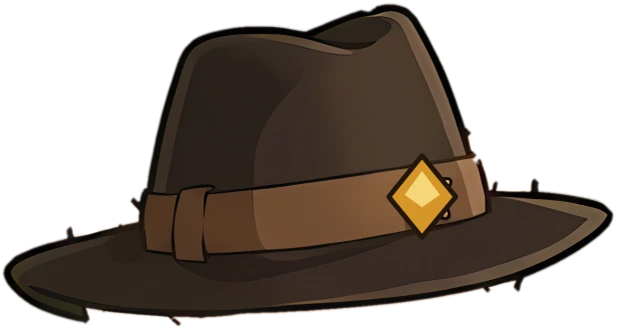
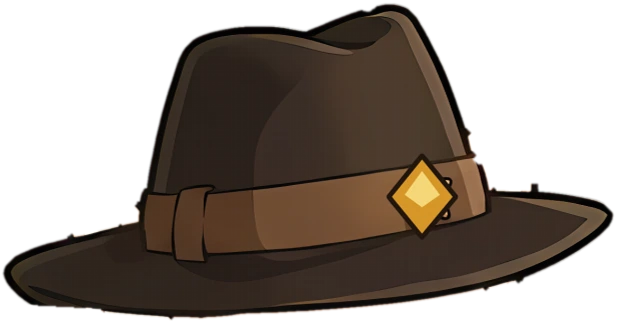
Hat: right ear stays covered; no triangles on the left
- The far ear is no longer drawn over the hat and the worn hat sits where it did.
- The near ear over the hat is clipped before the skull fur that poked out as an
  orange triangle; the back brim's lip no longer ends in a dark point (re-baked).
- The worn-hat bend starts past the crown, so no seam opens beside the badge.

diff --git a/src/character/AgentFox.ts b/src/character/AgentFox.ts
@@ -1864,26 +1864,18 @@ function mark(g: G, name: string, p: V2) {
 
 /** Rig px the hat sits above its baked place (master look: brows clear of the brim). */
 const HAT_RAISE = 34;
-/** The far ear on the head sprite (rig px), stopping just above the skull's outline at its base. */
-const FAR_EAR: V2[] = [
-  [1768, 246],
-  [1800, 196],
-  [1852, 146],
-  [1902, 104],
-  [1936, 98],
-  [1946, 180],
-  [1944, 262],
-  [1916, 336],
-  [1900, 326],
-  [1862, 298],
-  [1826, 266],
-  [1792, 252],
+/** Where the near ear drawn over the hat ends (rig px): just past its rim, before the skull. */
+const EAR_OVER_CLIP: V2[] = [
+  [1440, 170],
+  [1626, 170],
+  [1627, 276],
+  [1636, 318],
+  [1636, 440],
+  [1440, 440],
 ];
 /** The worn hat (master look): forward tip (rad), how much lower it sits (rig px), brim droop and back curl (rad). */
 const HAT_TIP = 0.07;
 const HAT_SEAT = 10;
-/** Worn further back on the head (rig px), as in the master: the badge shows beside the far ear. */
-const HAT_BACK = 80;
 const HAT_DROOP = 0.6;
 const HAT_CURL = 0.3;
 
@@ -2155,16 +2147,15 @@ function drawFoxSheetRig(g: G, pose: FoxPose): void {
     // Worn (master look): tipped forward with the brim bent down over the brow and up at the back; as it
     // lifts off the head the felt relaxes into the flat hat of the model sheet.
     const worn = 1 - clamp(hatLift / 50);
-    g.translate(pivot[0] - worn * HAT_BACK, pivot[1] - hatLift + hatLag - HAT_RAISE + worn * HAT_SEAT);
+    g.translate(pivot[0], pivot[1] - hatLift + hatLag - HAT_RAISE + worn * HAT_SEAT);
     g.rotate(-0.1 * clamp(hatLift / 60) + worn * HAT_TIP - surprise * 0.08 + (beatLift(time - 0.2) - 0.5) * 0.025 * bounceAmt);
     g.translate(-pivot[0], -pivot[1]);
     placedHatBend(g, 'hat', worn * HAT_DROOP, worn * HAT_CURL);
     g.restore();
   }
   // Master look: the far ear stands in front of the hat brim, the brows are never hidden by it.
-  if (RIG.parts.ear_over) placed(g, 'ear_over');
-  // ...and so does the far one (master look): without it only its tip peeks out beside the crown.
-  if (hatOff <= 0) placedClip(g, 'head', FAR_EAR);
+  // (clipped: the baked ear piece ends in a bit of skull fur that showed as a triangle over the hat band)
+  if (RIG.parts.ear_over) placedClip(g, 'ear_over', EAR_OVER_CLIP);
   drawFaceBrows(g, face);
   // Sweat drop.
   const sweat = clamp(pose.sweat ?? 0);

diff --git a/src/character/rig/rigPuppet.ts b/src/character/rig/rigPuppet.ts
@@ -190,7 +190,7 @@ export function placedClip(g: G, name: string, poly: readonly V2[]) {
  * front/back: where the bend starts (fractions of the width from the back edge); lineY: the brim line
  * (fraction of the height).
  */
-export function placedHatBend(g: G, name: string, droop: number, curl: number, front = 0.76, back = 0.26, lineY = 0.82) {
+export function placedHatBend(g: G, name: string, droop: number, curl: number, front = 0.8, back = 0.21, lineY = 0.82) {
   const p = RIG.parts[name];
   const img = images[name];
   if (!img) return;
@@ -214,10 +214,11 @@ export function placedHatBend(g: G, name: string, droop: number, curl: number, f
     g.drawImage(img, p.x, p.y);
     g.restore();
   };
-  // Middle (the crown and the brim under it): unchanged.
+  // Middle (the crown and the brim under it): unchanged, a little wider than the bent ends so the
+  // first strips' turn never opens a wedge of background between them.
   g.save();
   g.beginPath();
-  g.rect(xb - 0.5, p.y - H, xf - xb + 1, H * 3);
+  g.rect(xb - 3, p.y - H, xf - xb + 6, H * 3);
   g.clip();
   g.drawImage(img, p.x, p.y);
   g.restore();
